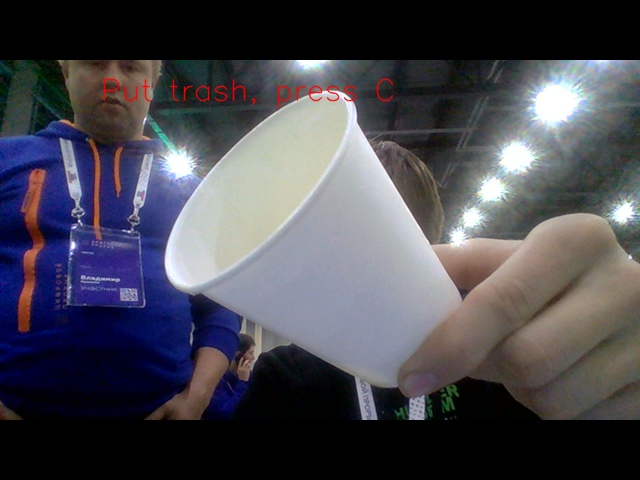
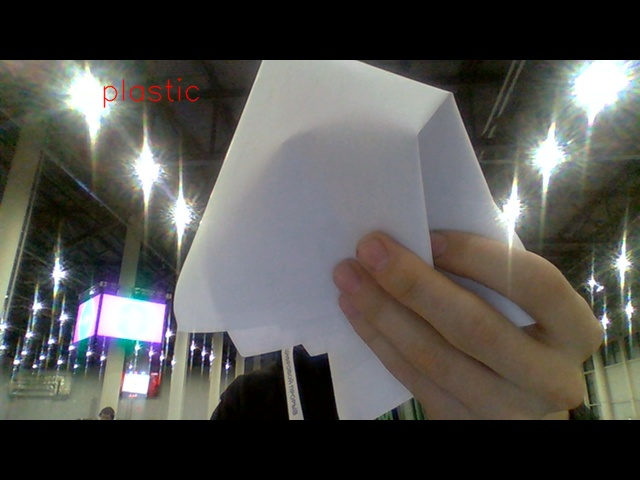
No QR code version(for tests)

diff --git a/cam_app/webcam_tester_noqr.py b/cam_app/webcam_tester_noqr.py
@@ -1,0 +1,109 @@
+import cv2
+import sys
+import os
+import tensorflow as tf
+import urllib.request
+import urllib.parse
+from pyzbar import pyzbar
+import datetime
+import imutils
+import time
+
+cascPath = "haarcascade_frontalface_alt.xml"
+faceCascade = cv2.CascadeClassifier(cascPath)
+global video_capture
+video_capture = cv2.VideoCapture(0)
+global found
+found = set()
+time.sleep(2.0)
+
+def send_post_http():
+    global phone_number
+    #http://43210.ru/thankyou.php?t=9************&b=3
+    print('Sending to:' + str(phone_number))
+    url = 'http://43210.ru/thankyou.php?t=' + str(phone_number) + '&b=3'
+    f = urllib.request.urlopen(url)
+
+def neural_process():
+    global phone_number
+    global video_capture
+    video_capture.release()
+    if phone_number:
+        image_path = 'testimg.jpg'
+        global obj_class
+        if image_path:
+            # Read the image_data
+            image_data = tf.gfile.FastGFile(image_path, 'rb').read()
+            # Loads label file, strips off carriage return
+            label_lines = [line.rstrip() for line 
+                               in tf.gfile.GFile("output_labels.txt")]
+            # Unpersists graph from file
+            with tf.gfile.FastGFile("output_graph.pb", 'rb') as f:
+                graph_def = tf.GraphDef()
+                graph_def.ParseFromString(f.read())
+                _ = tf.import_graph_def(graph_def, name='')
+            with tf.Session() as sess:
+                # Feed the image_data as input to the graph and get first prediction
+                softmax_tensor = sess.graph.get_tensor_by_name('final_result:0')
+                
+                predictions = sess.run(softmax_tensor, \
+                         {'DecodeJpeg/contents:0': image_data})
+                
+                # Sort to show labels of first prediction in order of confidence
+                top_k = predictions[0].argsort()[-len(predictions[0]):][::-1]
+                
+                obj_class = label_lines[top_k[0]]
+                
+                for node_id in top_k:
+                    human_string = label_lines[node_id]
+                    score = predictions[0][node_id]
+                    if (score>0.6):
+                        print('thanks!')
+                        send_post_http()
+                    print('%s (score = %.5f)' % (human_string, score))
+    video_capture = cv2.VideoCapture(0)
+
+global obj_class
+global phone_number
+
+obj_class = ''
+first = 1
+phone_number = 1;
+
+while True:
+    # Capture frame-by-frame
+    
+    ret, frame = video_capture.read()
+
+    gray = cv2.cvtColor(frame, cv2.COLOR_BGR2GRAY)
+
+    faces = faceCascade.detectMultiScale(
+        gray,
+        scaleFactor=1.1,
+        minNeighbors=5,
+        minSize=(30, 30),
+        
+    )
+    
+    cv2.putText(frame, obj_class , (100, 100), cv2.FONT_HERSHEY_SIMPLEX, 1.0, (0 , 0, 255),lineType=cv2.LINE_AA)  
+    # Draw a rectangle around the faces
+    for (x, y, w, h) in faces:
+        cv2.rectangle(frame, (x, y), (x+w, y+h), (0, 255, 0), 2)
+        if first==1:
+            first=0
+            obj_class='Hello, please show qr-code'
+    
+    
+    # Display the resulting frame
+    cv2.imshow('Video', frame)
+
+    if cv2.waitKey(1) & 0xFF == ord('c'):
+        cv2.imwrite(filename='testimg.jpg', img=frame)
+        neural_process()
+
+    if cv2.waitKey(1) & 0xFF == ord('q'):
+        break
+
+# When everything is done, release the capture
+video_capture.release()
+cv2.destroyAllWindows()

diff --git a/dataset/raw_dataset/resize_images.py b/dataset/raw_dataset/resize_images.py
@@ -45,7 +45,7 @@ if __name__ == "__main__":
         )
     )
     for i, fname in enumerate(fnames):
-        print(".", end="", flush=True)
+        print("."+str(fname), end="", flush=True)
         img = cv2.imread(fname)
         img_small = cv2.resize(img, target_size)
         new_fname = "{}.{}".format(str(i), ext)
